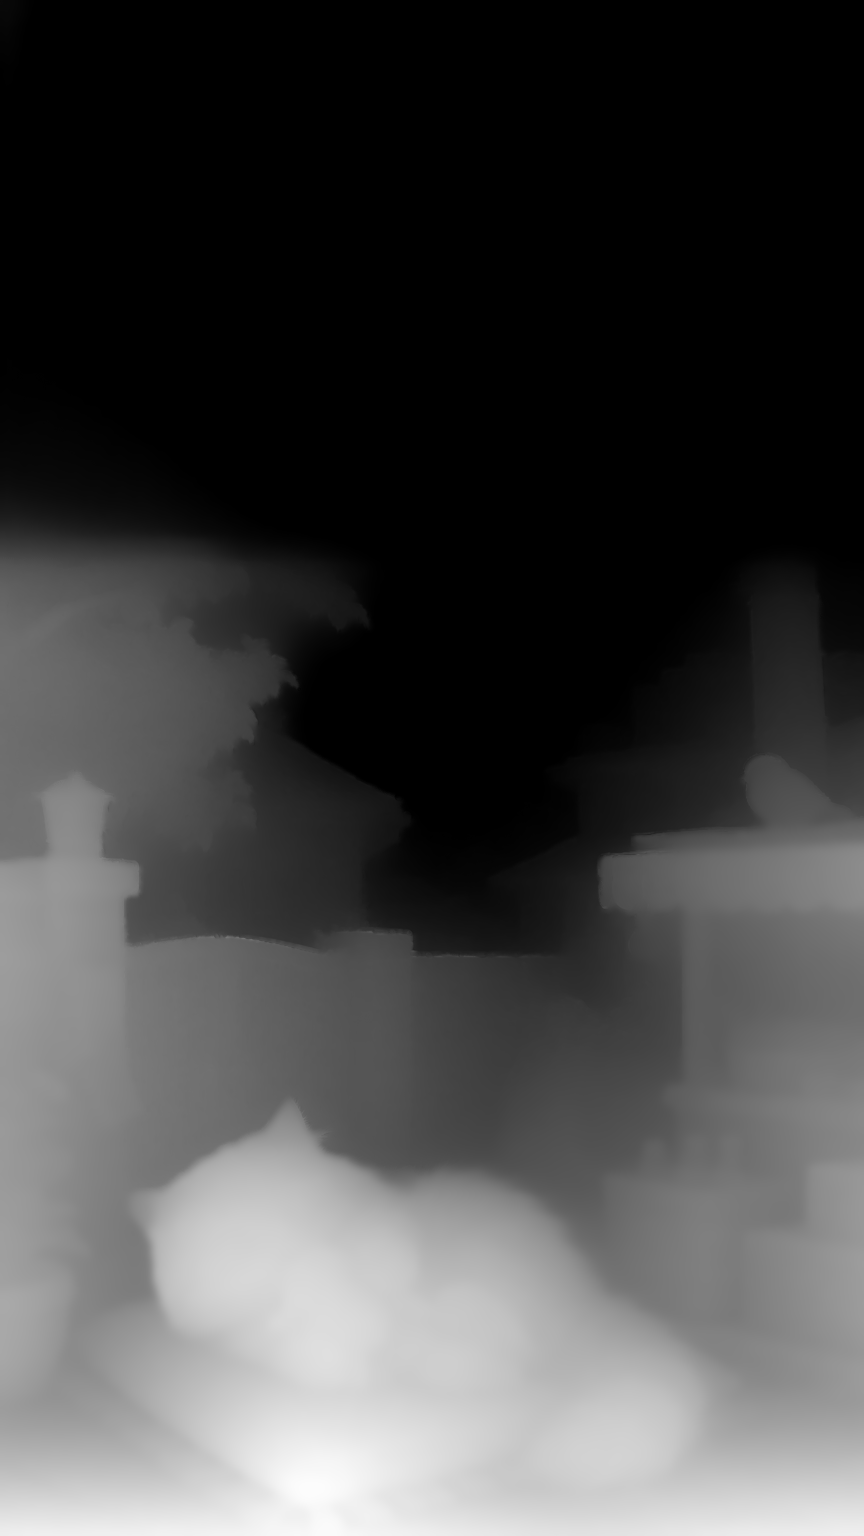
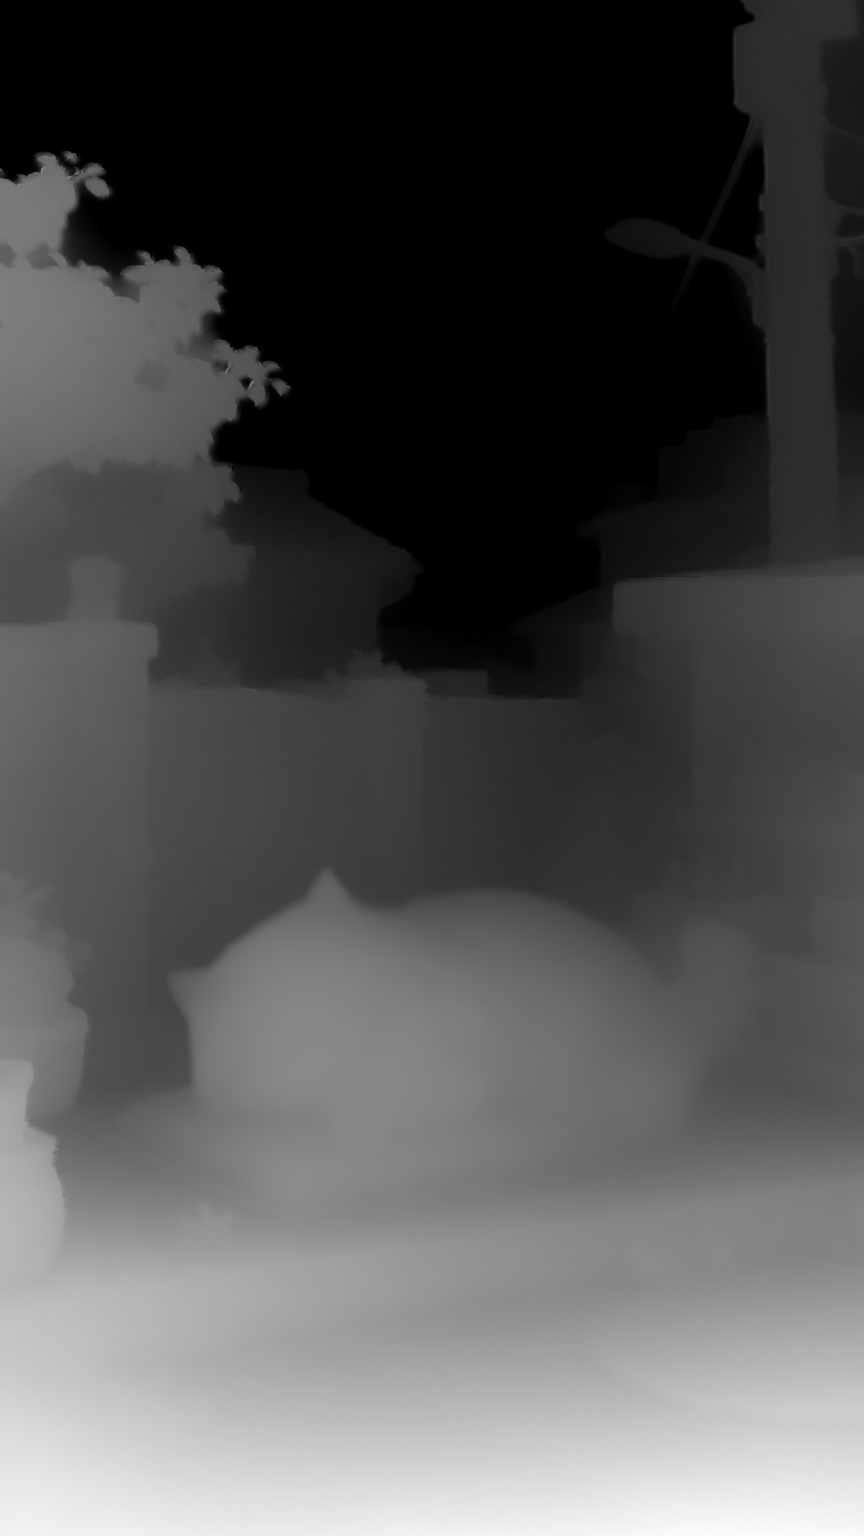
Fully-automatic scene pipeline (no human intervention) + new 9:16 latte
Add scripts/make_scene.sh: photo -> 3D-photo lockscreen with zero manual steps
(resize -> Depth Anything -> rembg/U2Net auto subject mask -> cliff cut + LaMa).
Regenerate the latte scene from the corrected 9:16 photo via this auto pipeline;
the rembg subject mask replaces the hand-tuned grabCut box.

Run: scripts/make_scene.sh <photo> <name>  ->  ?scene=<name>

diff --git a/index.html b/index.html
@@ -11,7 +11,7 @@
     <meta name="apple-mobile-web-app-title" content="Cat Lock" />
     <meta name="apple-mobile-web-app-status-bar-style" content="black-translucent" />
     <link rel="manifest" href="./manifest.webmanifest" />
-    <link rel="stylesheet" href="./style.css?v=mesh-17" />
+    <link rel="stylesheet" href="./style.css?v=mesh-18" />
     <title>Cat Depth Lock</title>
     <script type="importmap">
       {
@@ -55,6 +55,6 @@
     </main>
 
     <script src="https://unpkg.com/lucide@0.468.0/dist/umd/lucide.min.js" defer></script>
-    <script type="module" src="./app.js?v=mesh-17"></script>
+    <script type="module" src="./app.js?v=mesh-18"></script>
   </body>
 </html>

diff --git a/scripts/auto_subject_rembg.py b/scripts/auto_subject_rembg.py
@@ -1,0 +1,25 @@
+"""Automatic subject mask (no human intervention) via rembg / U2Net saliency.
+Usage: python auto_subject_rembg.py <image> <out_mask>"""
+import sys
+import cv2
+import numpy as np
+from PIL import Image
+from rembg import remove, new_session
+
+inp, out = sys.argv[1], sys.argv[2]
+img = Image.open(inp).convert("RGB")
+mask = np.array(remove(img, session=new_session("u2net"), only_mask=True).convert("L"))
+
+m = (mask > 128).astype(np.uint8) * 255
+m = cv2.morphologyEx(m, cv2.MORPH_OPEN, cv2.getStructuringElement(cv2.MORPH_ELLIPSE, (7, 7)))
+n, lbl, st, _ = cv2.connectedComponentsWithStats(m)
+if n > 1:
+    m = (lbl == 1 + int(np.argmax(st[1:, cv2.CC_STAT_AREA]))).astype(np.uint8) * 255
+m = cv2.morphologyEx(m, cv2.MORPH_CLOSE, cv2.getStructuringElement(cv2.MORPH_ELLIPSE, (21, 21)))
+# fill holes
+ff = m.copy(); h, w = m.shape; fm = np.zeros((h + 2, w + 2), np.uint8)
+cv2.floodFill(ff, fm, (0, 0), 255)
+m = cv2.bitwise_or(m, cv2.bitwise_not(ff))
+
+Image.fromarray(m).save(out)
+print("auto subject mask % =", round(100 * (m > 127).mean(), 1))
